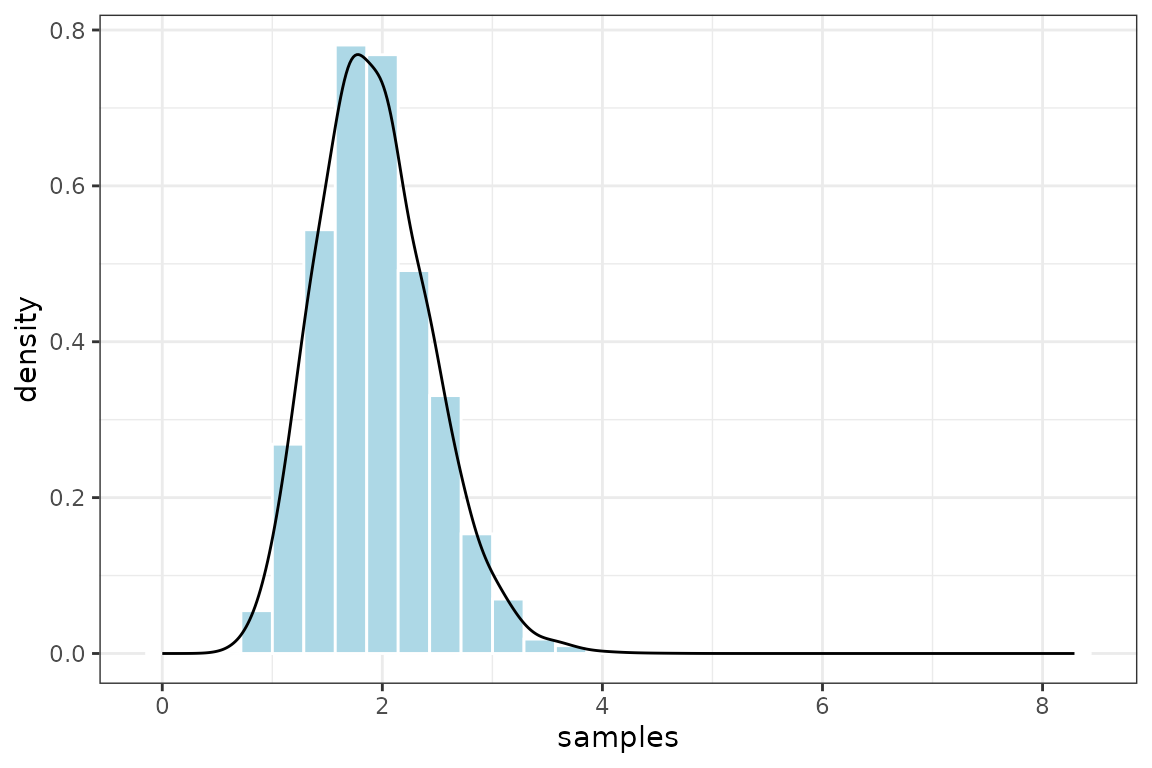
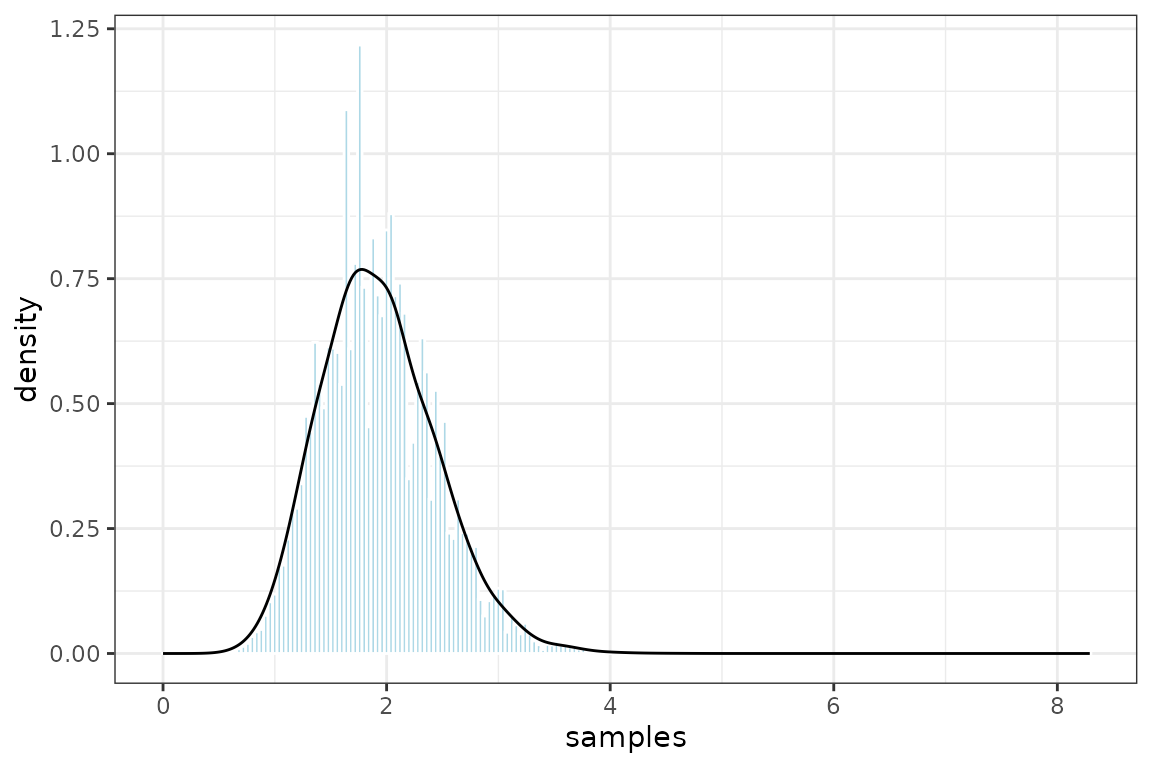
Deploying to gh-pages from @ maribraga/treepplr@432c94065e0aa404a5efdf97d2a7fe2e9b7e196f 🚀

diff --git a/articles/hostrep-example.html b/articles/hostrep-example.html
@@ -66,6 +66,25 @@
 
     
     
+<div class="sourceCode" id="cb1"><pre class="downlit sourceCode r">
+<code class="sourceCode R"><span><span class="kw"><a href="https://rdrr.io/r/base/library.html" class="external-link">library</a></span><span class="op">(</span><span class="va"><a href="https://github.com/treeppl/treepplr" class="external-link">treepplr</a></span><span class="op">)</span></span>
+<span><span class="kw"><a href="https://rdrr.io/r/base/library.html" class="external-link">library</a></span><span class="op">(</span><span class="va"><a href="https://ggplot2.tidyverse.org" class="external-link">ggplot2</a></span><span class="op">)</span></span>
+<span><span class="kw"><a href="https://rdrr.io/r/base/library.html" class="external-link">library</a></span><span class="op">(</span><span class="va"><a href="https://magrittr.tidyverse.org" class="external-link">magrittr</a></span><span class="op">)</span></span>
+<span><span class="kw"><a href="https://rdrr.io/r/base/library.html" class="external-link">library</a></span><span class="op">(</span><span class="va"><a href="https://dplyr.tidyverse.org" class="external-link">dplyr</a></span><span class="op">)</span></span>
+<span><span class="kw"><a href="https://rdrr.io/r/base/library.html" class="external-link">library</a></span><span class="op">(</span><span class="va"><a href="https://github.com/emmanuelparadis/ape" class="external-link">ape</a></span><span class="op">)</span></span>
+<span></span>
+<span><span class="kw">if</span><span class="op">(</span><span class="op">!</span><span class="kw"><a href="https://rdrr.io/r/base/library.html" class="external-link">require</a></span><span class="op">(</span><span class="st"><a href="https://github.com/maribraga/evolnets" class="external-link">"evolnets"</a></span>, quietly <span class="op">=</span> <span class="cn">TRUE</span><span class="op">)</span><span class="op">)</span> <span class="op">{</span></span>
+<span> <span class="kw"><a href="https://rdrr.io/r/base/library.html" class="external-link">library</a></span><span class="op">(</span><span class="va"><a href="https://devtools.r-lib.org/" class="external-link">devtools</a></span><span class="op">)</span></span>
+<span> <span class="kw">if</span> <span class="op">(</span><span class="op">!</span><span class="kw"><a href="https://rdrr.io/r/base/library.html" class="external-link">require</a></span><span class="op">(</span><span class="st"><a href="https://bioconductor.github.io/BiocManager/" class="external-link">"BiocManager"</a></span>, quietly <span class="op">=</span> <span class="cn">TRUE</span><span class="op">)</span><span class="op">)</span></span>
+<span>   <span class="fu"><a href="https://rdrr.io/r/utils/install.packages.html" class="external-link">install.packages</a></span><span class="op">(</span><span class="st">"BiocManager"</span><span class="op">)</span></span>
+<span> <span class="kw"><a href="https://rdrr.io/r/base/library.html" class="external-link">library</a></span><span class="op">(</span><span class="va"><a href="https://bioconductor.github.io/BiocManager/" class="external-link">BiocManager</a></span><span class="op">)</span></span>
+<span> <span class="fu">BiocManager</span><span class="fu">::</span><span class="fu"><a href="https://bioconductor.github.io/BiocManager/reference/install.html" class="external-link">install</a></span><span class="op">(</span><span class="st">"ggtree"</span><span class="op">)</span></span>
+<span> <span class="fu">devtools</span><span class="fu">::</span><span class="fu"><a href="https://remotes.r-lib.org/reference/install_github.html" class="external-link">install_github</a></span><span class="op">(</span><span class="st">"maribraga/evolnets"</span><span class="op">)</span></span>
+<span> <span class="kw"><a href="https://rdrr.io/r/base/library.html" class="external-link">library</a></span><span class="op">(</span><span class="va"><a href="https://www.amazon.com/Integration-Manipulation-Visualization-Phylogenetic-Computational-ebook/dp/B0B5NLZR1Z/" class="external-link">ggtree</a></span><span class="op">)</span></span>
+<span> <span class="kw"><a href="https://rdrr.io/r/base/library.html" class="external-link">library</a></span><span class="op">(</span><span class="va"><a href="https://github.com/maribraga/evolnets" class="external-link">evolnets</a></span><span class="op">)</span></span>
+<span><span class="op">}</span> <span class="kw">else</span> <span class="op">{</span></span>
+<span> <span class="kw"><a href="https://rdrr.io/r/base/library.html" class="external-link">library</a></span><span class="op">(</span><span class="va"><a href="https://github.com/maribraga/evolnets" class="external-link">evolnets</a></span><span class="op">)</span></span>
+<span><span class="op">}</span></span></code></pre></div>
 <p>This is a very simplified workflow in <strong>treepplr</strong> for
 analysis of host repertoire evolution. The data used here is simulated
 and the inference is too simple. A real analysis would include many
@@ -79,7 +98,7 @@ process the output with <strong>evolnets</strong>.</p>
 </h2>
 <p>Load the 3-state host repertoire model and example data available
 within <strong>treepplr</strong>.</p>
-<div class="sourceCode" id="cb1"><pre class="downlit sourceCode r">
+<div class="sourceCode" id="cb2"><pre class="downlit sourceCode r">
 <code class="sourceCode R"><span><span class="va">model</span> <span class="op">&lt;-</span> <span class="fu"><a href="../reference/tp_model.html">tp_model</a></span><span class="op">(</span><span class="st">"hostrep3states"</span><span class="op">)</span></span>
 <span><span class="va">data</span> <span class="op">&lt;-</span> <span class="fu"><a href="../reference/tp_data.html">tp_data</a></span><span class="op">(</span><span class="st">"hostrep3states"</span><span class="op">)</span></span></code></pre></div>
 </div>
@@ -88,10 +107,10 @@ within <strong>treepplr</strong>.</p>
 </h2>
 <p>Now we can compile and run the TreePPL program using the default
 inference options.</p>
-<div class="sourceCode" id="cb2"><pre class="downlit sourceCode r">
+<div class="sourceCode" id="cb3"><pre class="downlit sourceCode r">
 <code class="sourceCode R"><span><span class="va">output_list</span> <span class="op">&lt;-</span> <span class="fu"><a href="../reference/tp_treeppl.html">tp_treeppl</a></span><span class="op">(</span>model <span class="op">=</span> <span class="va">model</span>, model_file_name <span class="op">=</span> <span class="st">"hostrep"</span>, </span>
 <span>                          data <span class="op">=</span> <span class="va">data</span>, data_file_name <span class="op">=</span> <span class="st">"hostrep"</span><span class="op">)</span></span></code></pre></div>
-<div class="sourceCode" id="cb3"><pre class="downlit sourceCode r">
+<div class="sourceCode" id="cb4"><pre class="downlit sourceCode r">
 <code class="sourceCode R"><span><span class="va">output</span> <span class="op">&lt;-</span> <span class="fu"><a href="../reference/tp_parse_host_rep.html">tp_parse_host_rep</a></span><span class="op">(</span><span class="va">output_list</span><span class="op">)</span></span></code></pre></div>
 <p>The output from <em>tp_parse_host_rep()</em> contains all information
 outputted by treeppl, so we need to separate the sampled character
@@ -100,22 +119,22 @@ histories from the sampled parameter values.</p>
 <div class="section level2">
 <h2 id="parameter-estimates">Parameter estimates<a class="anchor" aria-label="anchor" href="#parameter-estimates"></a>
 </h2>
-<div class="sourceCode" id="cb4"><pre class="downlit sourceCode r">
+<div class="sourceCode" id="cb5"><pre class="downlit sourceCode r">
 <code class="sourceCode R"><span><span class="va">logs</span> <span class="op">&lt;-</span>  <span class="va">output</span><span class="op">[[</span><span class="fl">1</span><span class="op">]</span><span class="op">]</span> <span class="op"><a href="https://magrittr.tidyverse.org/reference/pipe.html" class="external-link">%&gt;%</a></span> </span>
 <span>  <span class="fu">dplyr</span><span class="fu">::</span><span class="fu"><a href="https://dplyr.tidyverse.org/reference/select.html" class="external-link">select</a></span><span class="op">(</span><span class="va">iteration</span>, <span class="va">log_weight</span>, <span class="va">mu</span>, <span class="va">beta</span><span class="op">)</span> <span class="op"><a href="https://magrittr.tidyverse.org/reference/pipe.html" class="external-link">%&gt;%</a></span> </span>
 <span>  <span class="fu"><a href="https://rdrr.io/r/base/unique.html" class="external-link">unique</a></span><span class="op">(</span><span class="op">)</span> <span class="op"><a href="https://magrittr.tidyverse.org/reference/pipe.html" class="external-link">%&gt;%</a></span> </span>
 <span>  <span class="fu">dplyr</span><span class="fu">::</span><span class="fu"><a href="https://dplyr.tidyverse.org/reference/mutate.html" class="external-link">mutate</a></span><span class="op">(</span>weight <span class="op">=</span> <span class="fu"><a href="https://rdrr.io/r/base/Log.html" class="external-link">exp</a></span><span class="op">(</span><span class="va">log_weight</span> <span class="op">-</span> <span class="fu"><a href="https://rdrr.io/r/base/Extremes.html" class="external-link">max</a></span><span class="op">(</span><span class="va">.</span><span class="op">$</span><span class="va">log_weight</span><span class="op">)</span><span class="op">)</span><span class="op">)</span></span>
 <span></span>
-<span><span class="fu"><a href="https://ggplot2.tidyverse.org/reference/ggplot.html" class="external-link">ggplot</a></span><span class="op">(</span><span class="va">logs</span><span class="op">)</span> <span class="op">+</span></span>
-<span>  <span class="fu"><a href="https://ggplot2.tidyverse.org/reference/geom_histogram.html" class="external-link">geom_histogram</a></span><span class="op">(</span><span class="fu"><a href="https://ggplot2.tidyverse.org/reference/aes.html" class="external-link">aes</a></span><span class="op">(</span><span class="va">mu</span>, y <span class="op">=</span> <span class="fu"><a href="https://ggplot2.tidyverse.org/reference/aes_eval.html" class="external-link">after_stat</a></span><span class="op">(</span><span class="va">density</span><span class="op">)</span>, weight<span class="op">=</span><span class="va">weight</span><span class="op">)</span>, col <span class="op">=</span> <span class="st">"white"</span>, fill <span class="op">=</span> <span class="st">"lightblue"</span><span class="op">)</span> <span class="op">+</span></span>
-<span>  <span class="fu"><a href="https://ggplot2.tidyverse.org/reference/geom_density.html" class="external-link">geom_density</a></span><span class="op">(</span><span class="fu"><a href="https://ggplot2.tidyverse.org/reference/aes.html" class="external-link">aes</a></span><span class="op">(</span><span class="va">mu</span>, weight<span class="op">=</span><span class="va">weight</span><span class="op">)</span><span class="op">)</span> <span class="op">+</span></span>
+<span><span class="fu"><a href="https://ggplot2.tidyverse.org/reference/ggplot.html" class="external-link">ggplot</a></span><span class="op">(</span><span class="va">logs</span>, <span class="fu"><a href="https://ggplot2.tidyverse.org/reference/aes.html" class="external-link">aes</a></span><span class="op">(</span><span class="va">mu</span>, weight<span class="op">=</span><span class="va">weight</span><span class="op">)</span><span class="op">)</span> <span class="op">+</span></span>
+<span>  <span class="fu"><a href="https://ggplot2.tidyverse.org/reference/geom_histogram.html" class="external-link">geom_histogram</a></span><span class="op">(</span><span class="fu"><a href="https://ggplot2.tidyverse.org/reference/aes.html" class="external-link">aes</a></span><span class="op">(</span>y <span class="op">=</span> <span class="fu"><a href="https://ggplot2.tidyverse.org/reference/aes_eval.html" class="external-link">after_stat</a></span><span class="op">(</span><span class="va">density</span><span class="op">)</span><span class="op">)</span>, col <span class="op">=</span> <span class="st">"white"</span>, fill <span class="op">=</span> <span class="st">"lightblue"</span>, binwidth<span class="op">=</span><span class="fl">0.04</span><span class="op">)</span> <span class="op">+</span></span>
+<span>  <span class="fu"><a href="https://ggplot2.tidyverse.org/reference/geom_density.html" class="external-link">geom_density</a></span><span class="op">(</span><span class="op">)</span> <span class="op">+</span></span>
 <span>  <span class="fu"><a href="https://ggplot2.tidyverse.org/reference/ggtheme.html" class="external-link">theme_bw</a></span><span class="op">(</span><span class="op">)</span></span></code></pre></div>
 <p><img src="hostrep-example_files/figure-html/unnamed-chunk-7-1.png" width="700"></p>
-<div class="sourceCode" id="cb5"><pre class="downlit sourceCode r">
+<div class="sourceCode" id="cb6"><pre class="downlit sourceCode r">
 <code class="sourceCode R"><span></span>
-<span><span class="fu"><a href="https://ggplot2.tidyverse.org/reference/ggplot.html" class="external-link">ggplot</a></span><span class="op">(</span><span class="va">logs</span><span class="op">)</span> <span class="op">+</span></span>
-<span>  <span class="fu"><a href="https://ggplot2.tidyverse.org/reference/geom_histogram.html" class="external-link">geom_histogram</a></span><span class="op">(</span><span class="fu"><a href="https://ggplot2.tidyverse.org/reference/aes.html" class="external-link">aes</a></span><span class="op">(</span><span class="va">beta</span>, y <span class="op">=</span> <span class="fu"><a href="https://ggplot2.tidyverse.org/reference/aes_eval.html" class="external-link">after_stat</a></span><span class="op">(</span><span class="va">density</span><span class="op">)</span>, weight<span class="op">=</span><span class="va">weight</span><span class="op">)</span>, col <span class="op">=</span> <span class="st">"white"</span>, fill <span class="op">=</span> <span class="st">"lightblue"</span><span class="op">)</span> <span class="op">+</span></span>
-<span>  <span class="fu"><a href="https://ggplot2.tidyverse.org/reference/geom_density.html" class="external-link">geom_density</a></span><span class="op">(</span><span class="fu"><a href="https://ggplot2.tidyverse.org/reference/aes.html" class="external-link">aes</a></span><span class="op">(</span><span class="va">beta</span>, weight<span class="op">=</span><span class="va">weight</span><span class="op">)</span><span class="op">)</span> <span class="op">+</span></span>
+<span><span class="fu"><a href="https://ggplot2.tidyverse.org/reference/ggplot.html" class="external-link">ggplot</a></span><span class="op">(</span><span class="va">logs</span>, <span class="fu"><a href="https://ggplot2.tidyverse.org/reference/aes.html" class="external-link">aes</a></span><span class="op">(</span><span class="va">mu</span>, weight<span class="op">=</span><span class="va">weight</span><span class="op">)</span><span class="op">)</span> <span class="op">+</span></span>
+<span>  <span class="fu"><a href="https://ggplot2.tidyverse.org/reference/geom_histogram.html" class="external-link">geom_histogram</a></span><span class="op">(</span><span class="fu"><a href="https://ggplot2.tidyverse.org/reference/aes.html" class="external-link">aes</a></span><span class="op">(</span>y <span class="op">=</span> <span class="fu"><a href="https://ggplot2.tidyverse.org/reference/aes_eval.html" class="external-link">after_stat</a></span><span class="op">(</span><span class="va">density</span><span class="op">)</span> <span class="op">)</span>, col <span class="op">=</span> <span class="st">"white"</span>, fill <span class="op">=</span> <span class="st">"lightblue"</span>, binwidth<span class="op">=</span><span class="fl">0.04</span><span class="op">)</span> <span class="op">+</span></span>
+<span>  <span class="fu"><a href="https://ggplot2.tidyverse.org/reference/geom_density.html" class="external-link">geom_density</a></span><span class="op">(</span><span class="op">)</span> <span class="op">+</span></span>
 <span>  <span class="fu"><a href="https://ggplot2.tidyverse.org/reference/ggtheme.html" class="external-link">theme_bw</a></span><span class="op">(</span><span class="op">)</span></span></code></pre></div>
 <p><img src="hostrep-example_files/figure-html/unnamed-chunk-7-2.png" width="700"></p>
 </div>
@@ -123,7 +142,7 @@ histories from the sampled parameter values.</p>
 <h2 id="character-history">Character history<a class="anchor" aria-label="anchor" href="#character-history"></a>
 </h2>
 <p>Extract table with character history samples</p>
-<div class="sourceCode" id="cb6"><pre class="downlit sourceCode r">
+<div class="sourceCode" id="cb7"><pre class="downlit sourceCode r">
 <code class="sourceCode R"><span><span class="co"># post-treatment function</span></span>
 <span><span class="va">get_history</span> <span class="op">&lt;-</span> <span class="kw">function</span><span class="op">(</span><span class="va">parsed_output</span><span class="op">)</span><span class="op">{</span></span>
 <span>  </span>
@@ -143,11 +162,11 @@ histories from the sampled parameter values.</p>
 <p>This table can be used by <strong>evolnets</strong> for plotting
 results, together with the phylogenetic trees and the known extant
 interactions.</p>
-<div class="sourceCode" id="cb7"><pre class="downlit sourceCode r">
+<div class="sourceCode" id="cb8"><pre class="downlit sourceCode r">
 <code class="sourceCode R"><span><span class="co"># get data from treepplr</span></span>
-<span><span class="va">symbiont_tree</span> <span class="op">&lt;-</span> <span class="fu">evolnets</span><span class="fu">::</span><span class="fu"><a href="https://maribraga.github.io/evolnets/reference/read_tree_from_revbayes.html" class="external-link">read_tree_from_revbayes</a></span><span class="op">(</span></span>
+<span><span class="va">symbiont_tree</span> <span class="op">&lt;-</span> <span class="fu"><a href="https://maribraga.github.io/evolnets/reference/read_tree_from_revbayes.html" class="external-link">read_tree_from_revbayes</a></span><span class="op">(</span></span>
 <span>  <span class="fu"><a href="https://rdrr.io/r/base/system.file.html" class="external-link">system.file</a></span><span class="op">(</span><span class="st">"extdata/hostrep3states_treeRev.tre"</span>, package <span class="op">=</span> <span class="st">"treepplr"</span><span class="op">)</span><span class="op">)</span></span>
-<span><span class="va">host_tree</span> <span class="op">&lt;-</span> <span class="fu">ape</span><span class="fu">::</span><span class="fu"><a href="https://rdrr.io/pkg/ape/man/read.tree.html" class="external-link">read.tree</a></span><span class="op">(</span></span>
+<span><span class="va">host_tree</span> <span class="op">&lt;-</span> <span class="fu"><a href="https://rdrr.io/pkg/ape/man/read.tree.html" class="external-link">read.tree</a></span><span class="op">(</span></span>
 <span>  <span class="fu"><a href="https://rdrr.io/r/base/system.file.html" class="external-link">system.file</a></span><span class="op">(</span><span class="st">"extdata/hostrep3states_host_tree.tre"</span>, package <span class="op">=</span> <span class="st">"treepplr"</span><span class="op">)</span><span class="op">)</span></span>
 <span><span class="va">matrix</span> <span class="op">&lt;-</span> <span class="fu"><a href="https://rdrr.io/r/utils/read.table.html" class="external-link">read.csv</a></span><span class="op">(</span></span>
 <span>  <span class="fu"><a href="https://rdrr.io/r/base/system.file.html" class="external-link">system.file</a></span><span class="op">(</span><span class="st">"extdata/hostrep3states_extant_interactions.csv"</span>, package <span class="op">=</span> <span class="st">"treepplr"</span><span class="op">)</span>, </span>
@@ -156,12 +175,12 @@ interactions.</p>
 <div class="section level3">
 <h3 id="plot-data-and-inferred-ancestral-fundamental-host-repertoires">Plot data and inferred ancestral fundamental host repertoires<a class="anchor" aria-label="anchor" href="#plot-data-and-inferred-ancestral-fundamental-host-repertoires"></a>
 </h3>
-<div class="sourceCode" id="cb8"><pre class="downlit sourceCode r">
+<div class="sourceCode" id="cb9"><pre class="downlit sourceCode r">
 <code class="sourceCode R"><span><span class="co"># calculate posterior at nodes</span></span>
-<span><span class="va">tp_at_nodes</span> <span class="op">&lt;-</span> <span class="fu">evolnets</span><span class="fu">::</span><span class="fu"><a href="https://maribraga.github.io/evolnets/reference/posterior_at_nodes.html" class="external-link">posterior_at_nodes</a></span><span class="op">(</span><span class="va">tp_hist</span>, <span class="va">symbiont_tree</span>, <span class="va">host_tree</span>, state <span class="op">=</span> <span class="fu"><a href="https://rdrr.io/r/base/c.html" class="external-link">c</a></span><span class="op">(</span><span class="fl">1</span>,<span class="fl">2</span><span class="op">)</span><span class="op">)</span></span>
+<span><span class="va">tp_at_nodes</span> <span class="op">&lt;-</span> <span class="fu"><a href="https://maribraga.github.io/evolnets/reference/posterior_at_nodes.html" class="external-link">posterior_at_nodes</a></span><span class="op">(</span><span class="va">tp_hist</span>, <span class="va">symbiont_tree</span>, <span class="va">host_tree</span>, state <span class="op">=</span> <span class="fu"><a href="https://rdrr.io/r/base/c.html" class="external-link">c</a></span><span class="op">(</span><span class="fl">1</span>,<span class="fl">2</span><span class="op">)</span><span class="op">)</span></span>
 <span></span>
 <span><span class="co">#plot</span></span>
-<span><span class="op">(</span><span class="va">tp_asr_fund</span> <span class="op">&lt;-</span> <span class="fu">evolnets</span><span class="fu">::</span><span class="fu"><a href="https://maribraga.github.io/evolnets/reference/plot_matrix_phylo.html" class="external-link">plot_matrix_phylo</a></span><span class="op">(</span><span class="va">matrix</span>, <span class="va">tp_at_nodes</span>, <span class="va">symbiont_tree</span>, </span>
+<span><span class="op">(</span><span class="va">tp_asr_fund</span> <span class="op">&lt;-</span> <span class="fu"><a href="https://maribraga.github.io/evolnets/reference/plot_matrix_phylo.html" class="external-link">plot_matrix_phylo</a></span><span class="op">(</span><span class="va">matrix</span>, <span class="va">tp_at_nodes</span>, <span class="va">symbiont_tree</span>, </span>
 <span>                                            <span class="va">host_tree</span>, type <span class="op">=</span> <span class="st">"repertoires"</span>, </span>
 <span>                                            repertoire <span class="op">=</span> <span class="st">"fundamental"</span><span class="op">)</span><span class="op">)</span></span></code></pre></div>
 <p><img src="hostrep-example_files/figure-html/unnamed-chunk-10-1.png" width="576"></p>
@@ -169,8 +188,8 @@ interactions.</p>
 <div class="section level3">
 <h3 id="plot-data-and-inferred-ancestral-realized-host-repertoires">Plot data and inferred ancestral realized host repertoires<a class="anchor" aria-label="anchor" href="#plot-data-and-inferred-ancestral-realized-host-repertoires"></a>
 </h3>
-<div class="sourceCode" id="cb9"><pre class="downlit sourceCode r">
-<code class="sourceCode R"><span><span class="op">(</span><span class="va">tp_asr_real</span> <span class="op">&lt;-</span> <span class="fu">evolnets</span><span class="fu">::</span><span class="fu"><a href="https://maribraga.github.io/evolnets/reference/plot_matrix_phylo.html" class="external-link">plot_matrix_phylo</a></span><span class="op">(</span><span class="va">matrix</span>, <span class="va">tp_at_nodes</span>, <span class="va">symbiont_tree</span>, </span>
+<div class="sourceCode" id="cb10"><pre class="downlit sourceCode r">
+<code class="sourceCode R"><span><span class="op">(</span><span class="va">tp_asr_real</span> <span class="op">&lt;-</span> <span class="fu"><a href="https://maribraga.github.io/evolnets/reference/plot_matrix_phylo.html" class="external-link">plot_matrix_phylo</a></span><span class="op">(</span><span class="va">matrix</span>, <span class="va">tp_at_nodes</span>, <span class="va">symbiont_tree</span>, </span>
 <span>                                            <span class="va">host_tree</span>, type <span class="op">=</span> <span class="st">"repertoires"</span>, </span>
 <span>                                            repertoire <span class="op">=</span> <span class="st">"realized"</span><span class="op">)</span><span class="op">)</span></span></code></pre></div>
 <p><img src="hostrep-example_files/figure-html/unnamed-chunk-11-1.png" width="576"></p>

diff --git a/articles/constant-rate-birth.html b/articles/constant-rate-birth.html
@@ -76,9 +76,9 @@
 </h2>
 <p>We will use an example (random) tree that comes with the package.</p>
 <div class="sourceCode" id="cb2"><pre class="downlit sourceCode r">
-<code class="sourceCode R"><span><span class="va">tree</span> <span class="op">&lt;-</span> <span class="fu">ape</span><span class="fu">::</span><span class="fu"><a href="https://rdrr.io/pkg/ape/man/read.tree.html" class="external-link">read.tree</a></span><span class="op">(</span><span class="fu"><a href="https://rdrr.io/r/base/system.file.html" class="external-link">system.file</a></span><span class="op">(</span></span>
+<code class="sourceCode R"><span><span class="va">tree</span> <span class="op">&lt;-</span> <span class="fu"><a href="https://rdrr.io/pkg/ape/man/read.tree.html" class="external-link">read.tree</a></span><span class="op">(</span><span class="fu"><a href="https://rdrr.io/r/base/system.file.html" class="external-link">system.file</a></span><span class="op">(</span></span>
 <span>  <span class="st">"extdata/crb_tree_15_tips.tre"</span>, package <span class="op">=</span> <span class="st">"treepplr"</span><span class="op">)</span><span class="op">)</span></span>
-<span><span class="fu">ape</span><span class="fu">::</span><span class="fu"><a href="https://rdrr.io/pkg/ape/man/plot.phylo.html" class="external-link">plot.phylo</a></span><span class="op">(</span><span class="va">tree</span>, cex <span class="op">=</span> <span class="fl">0.5</span><span class="op">)</span></span></code></pre></div>
+<span><span class="fu"><a href="https://rdrr.io/pkg/ape/man/plot.phylo.html" class="external-link">plot.phylo</a></span><span class="op">(</span><span class="va">tree</span>, cex <span class="op">=</span> <span class="fl">0.5</span><span class="op">)</span></span></code></pre></div>
 <p><img src="constant-rate-birth_files/figure-html/unnamed-chunk-2-1.png" width="576"></p>
 <p>We need to convert the tree to a <strong>TreePPL</strong> readable
 format and read the CRB model.</p>
@@ -106,11 +106,11 @@ distribution produced.</p>
 <span><span class="va">output</span> <span class="op">&lt;-</span>  <span class="fu"><a href="../reference/tp_parse.html">tp_parse</a></span><span class="op">(</span><span class="va">output_list</span><span class="op">)</span> <span class="op"><a href="https://magrittr.tidyverse.org/reference/pipe.html" class="external-link">%&gt;%</a></span> </span>
 <span>  <span class="fu">dplyr</span><span class="fu">::</span><span class="fu"><a href="https://dplyr.tidyverse.org/reference/mutate.html" class="external-link">mutate</a></span><span class="op">(</span>weight <span class="op">=</span> <span class="fu"><a href="https://rdrr.io/r/base/Log.html" class="external-link">exp</a></span><span class="op">(</span><span class="va">log_weight</span> <span class="op">-</span> <span class="fu"><a href="https://rdrr.io/r/base/Extremes.html" class="external-link">max</a></span><span class="op">(</span><span class="va">.</span><span class="op">$</span><span class="va">log_weight</span><span class="op">)</span><span class="op">)</span><span class="op">)</span></span>
 <span></span>
-<span><span class="fu">ggplot2</span><span class="fu">::</span><span class="fu"><a href="https://ggplot2.tidyverse.org/reference/ggplot.html" class="external-link">ggplot</a></span><span class="op">(</span><span class="va">output</span><span class="op">)</span> <span class="op">+</span></span>
-<span>  <span class="fu">ggplot2</span><span class="fu">::</span><span class="fu"><a href="https://ggplot2.tidyverse.org/reference/geom_histogram.html" class="external-link">geom_histogram</a></span><span class="op">(</span><span class="fu"><a href="https://ggplot2.tidyverse.org/reference/aes.html" class="external-link">aes</a></span><span class="op">(</span><span class="va">samples</span>, y <span class="op">=</span> <span class="fu"><a href="https://ggplot2.tidyverse.org/reference/aes_eval.html" class="external-link">after_stat</a></span><span class="op">(</span><span class="va">density</span><span class="op">)</span>, weight<span class="op">=</span><span class="va">weight</span><span class="op">)</span>, </span>
-<span>                          col <span class="op">=</span> <span class="st">"white"</span>, fill <span class="op">=</span> <span class="st">"lightblue"</span><span class="op">)</span> <span class="op">+</span></span>
-<span>  <span class="fu">ggplot2</span><span class="fu">::</span><span class="fu"><a href="https://ggplot2.tidyverse.org/reference/geom_density.html" class="external-link">geom_density</a></span><span class="op">(</span><span class="fu"><a href="https://ggplot2.tidyverse.org/reference/aes.html" class="external-link">aes</a></span><span class="op">(</span><span class="va">samples</span>, weight<span class="op">=</span><span class="va">weight</span><span class="op">)</span><span class="op">)</span> <span class="op">+</span></span>
-<span>  <span class="fu">ggplot2</span><span class="fu">::</span><span class="fu"><a href="https://ggplot2.tidyverse.org/reference/ggtheme.html" class="external-link">theme_bw</a></span><span class="op">(</span><span class="op">)</span></span></code></pre></div>
+<span><span class="fu"><a href="https://ggplot2.tidyverse.org/reference/ggplot.html" class="external-link">ggplot</a></span><span class="op">(</span><span class="va">output</span>, <span class="fu"><a href="https://ggplot2.tidyverse.org/reference/aes.html" class="external-link">aes</a></span><span class="op">(</span><span class="va">samples</span>, weight<span class="op">=</span><span class="va">weight</span><span class="op">)</span><span class="op">)</span> <span class="op">+</span></span>
+<span>  <span class="fu"><a href="https://ggplot2.tidyverse.org/reference/geom_histogram.html" class="external-link">geom_histogram</a></span><span class="op">(</span><span class="fu"><a href="https://ggplot2.tidyverse.org/reference/aes.html" class="external-link">aes</a></span><span class="op">(</span>y <span class="op">=</span> <span class="fu"><a href="https://ggplot2.tidyverse.org/reference/aes_eval.html" class="external-link">after_stat</a></span><span class="op">(</span><span class="va">density</span><span class="op">)</span><span class="op">)</span>,</span>
+<span>                 col <span class="op">=</span> <span class="st">"white"</span>, fill <span class="op">=</span> <span class="st">"lightblue"</span>, binwidth<span class="op">=</span><span class="fl">0.04</span><span class="op">)</span> <span class="op">+</span></span>
+<span>  <span class="fu"><a href="https://ggplot2.tidyverse.org/reference/geom_density.html" class="external-link">geom_density</a></span><span class="op">(</span><span class="op">)</span> <span class="op">+</span></span>
+<span>  <span class="fu"><a href="https://ggplot2.tidyverse.org/reference/ggtheme.html" class="external-link">theme_bw</a></span><span class="op">(</span><span class="op">)</span></span></code></pre></div>
 <p><img src="constant-rate-birth_files/figure-html/unnamed-chunk-6-1.png" width="576"></p>
 </div>
   </main><aside class="col-md-3"><nav id="toc" aria-label="Table of contents"><h2>On this page</h2>

diff --git a/articles/coin-example.html b/articles/coin-example.html
@@ -108,10 +108,11 @@ distribution produced.</p>
 <span><span class="va">output</span> <span class="op">&lt;-</span>  <span class="fu"><a href="../reference/tp_parse.html">tp_parse</a></span><span class="op">(</span><span class="va">output_list</span><span class="op">)</span> <span class="op"><a href="https://magrittr.tidyverse.org/reference/pipe.html" class="external-link">%&gt;%</a></span> </span>
 <span>  <span class="fu">dplyr</span><span class="fu">::</span><span class="fu"><a href="https://dplyr.tidyverse.org/reference/mutate.html" class="external-link">mutate</a></span><span class="op">(</span>weight <span class="op">=</span> <span class="fu"><a href="https://rdrr.io/r/base/Log.html" class="external-link">exp</a></span><span class="op">(</span><span class="va">log_weight</span> <span class="op">-</span> <span class="fu"><a href="https://rdrr.io/r/base/Extremes.html" class="external-link">max</a></span><span class="op">(</span><span class="va">.</span><span class="op">$</span><span class="va">log_weight</span><span class="op">)</span><span class="op">)</span><span class="op">)</span></span>
 <span></span>
-<span><span class="fu">ggplot2</span><span class="fu">::</span><span class="fu"><a href="https://ggplot2.tidyverse.org/reference/ggplot.html" class="external-link">ggplot</a></span><span class="op">(</span><span class="va">output</span><span class="op">)</span> <span class="op">+</span></span>
-<span>  <span class="fu">ggplot2</span><span class="fu">::</span><span class="fu"><a href="https://ggplot2.tidyverse.org/reference/geom_histogram.html" class="external-link">geom_histogram</a></span><span class="op">(</span><span class="fu"><a href="https://ggplot2.tidyverse.org/reference/aes.html" class="external-link">aes</a></span><span class="op">(</span><span class="va">samples</span>, y <span class="op">=</span> <span class="fu"><a href="https://ggplot2.tidyverse.org/reference/aes_eval.html" class="external-link">after_stat</a></span><span class="op">(</span><span class="va">density</span><span class="op">)</span>, weight<span class="op">=</span><span class="va">weight</span><span class="op">)</span>, col <span class="op">=</span> <span class="st">"white"</span>, fill <span class="op">=</span> <span class="st">"lightblue"</span><span class="op">)</span> <span class="op">+</span></span>
-<span>  <span class="fu">ggplot2</span><span class="fu">::</span><span class="fu"><a href="https://ggplot2.tidyverse.org/reference/geom_density.html" class="external-link">geom_density</a></span><span class="op">(</span><span class="fu"><a href="https://ggplot2.tidyverse.org/reference/aes.html" class="external-link">aes</a></span><span class="op">(</span><span class="va">samples</span>, weight<span class="op">=</span><span class="va">weight</span><span class="op">)</span><span class="op">)</span> <span class="op">+</span></span>
-<span>  <span class="fu">ggplot2</span><span class="fu">::</span><span class="fu"><a href="https://ggplot2.tidyverse.org/reference/ggtheme.html" class="external-link">theme_bw</a></span><span class="op">(</span><span class="op">)</span></span></code></pre></div>
+<span><span class="fu"><a href="https://ggplot2.tidyverse.org/reference/ggplot.html" class="external-link">ggplot</a></span><span class="op">(</span><span class="va">output</span>, <span class="fu"><a href="https://ggplot2.tidyverse.org/reference/aes.html" class="external-link">aes</a></span><span class="op">(</span><span class="va">samples</span>, weight<span class="op">=</span><span class="va">weight</span><span class="op">)</span><span class="op">)</span> <span class="op">+</span></span>
+<span>  <span class="fu"><a href="https://ggplot2.tidyverse.org/reference/geom_histogram.html" class="external-link">geom_histogram</a></span><span class="op">(</span><span class="fu"><a href="https://ggplot2.tidyverse.org/reference/aes.html" class="external-link">aes</a></span><span class="op">(</span>y <span class="op">=</span> <span class="fu"><a href="https://ggplot2.tidyverse.org/reference/aes_eval.html" class="external-link">after_stat</a></span><span class="op">(</span><span class="va">density</span><span class="op">)</span><span class="op">)</span>, </span>
+<span>                 col <span class="op">=</span> <span class="st">"white"</span>, fill <span class="op">=</span> <span class="st">"lightblue"</span>, binwidth<span class="op">=</span><span class="fl">0.04</span><span class="op">)</span> <span class="op">+</span></span>
+<span>  <span class="fu"><a href="https://ggplot2.tidyverse.org/reference/geom_density.html" class="external-link">geom_density</a></span><span class="op">(</span><span class="op">)</span> <span class="op">+</span></span>
+<span>  <span class="fu"><a href="https://ggplot2.tidyverse.org/reference/ggtheme.html" class="external-link">theme_bw</a></span><span class="op">(</span><span class="op">)</span></span></code></pre></div>
 <p><img src="coin-example_files/figure-html/unnamed-chunk-6-1.png" width="480"></p>
 </div>
   </main><aside class="col-md-3"><nav id="toc" aria-label="Table of contents"><h2>On this page</h2>
